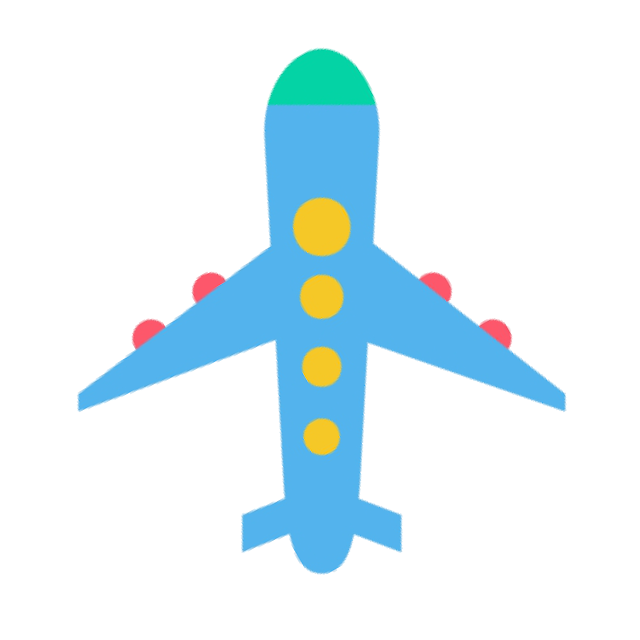
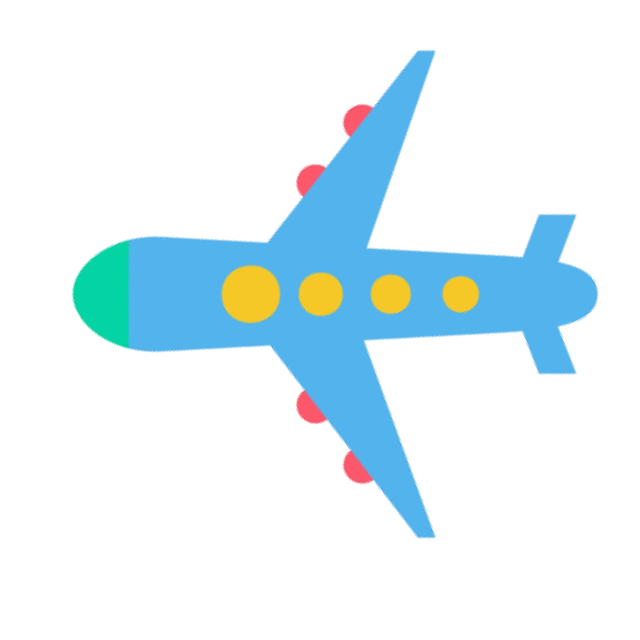
plane control dynamics working

Changed region(s): [[0.0938, 0.0625, 0.9375, 0.9062]]

diff --git a/planes/game.go b/planes/game.go
@@ -26,12 +26,14 @@ const (
 	playerIconScaleX = 0.05
 	playerIconScaleY = 0.05
 
-	initialVelocity = 0.5
+	initialVelocity = -0.5
+	defaultRotation = 0.01
 )
 
 var bgLayer, playerIcon *ebiten.Image
 
 func init() {
+	fmt.Println("init")
 	tile, _, _ := ebitenutil.NewImageFromFile("planes/assets/bg.jpg", ebiten.FilterDefault)
 	player, _, _ := ebitenutil.NewImageFromFile("planes/assets/icon_orig.png", ebiten.FilterDefault)
 	playerIcon, _ = ebiten.NewImage(32, 32, ebiten.FilterDefault)
@@ -69,71 +71,75 @@ func init() {
 }
 
 type Game struct {
-	x              float64
-	dx             float64
-	y              float64
-	dy             float64
-	bgLayerOffsetY float64
+	heading float64
+	x       float64
+	dx      float64
+	y       float64
+	dy      float64
 }
 
 func NewGame() *Game {
 	return &Game{
-		bgLayerOffsetY: 0.0,
-		dx:             0.0,
-		dy:             initialVelocity,
+		heading: math.Pi / 2,
+		x:       0.0,
+		y:       0.0,
 	}
 }
 
 func (g *Game) Update(screen *ebiten.Image) error {
+
 	if ebiten.IsKeyPressed(ebiten.KeyLeft) && !ebiten.IsKeyPressed(ebiten.KeyRight) {
 		fmt.Println("left")
-		g.dx -= 0.1 * initialVelocity
-		g.dy -= 0.1 * initialVelocity
+		g.rotate(-defaultRotation)
 	} else if ebiten.IsKeyPressed(ebiten.KeyRight) && !ebiten.IsKeyPressed(ebiten.KeyLeft) {
 		fmt.Println("Right")
-		g.dx += 0.1 * initialVelocity
-		g.dy -= 0.1 * initialVelocity
-	} else {
-
+		g.rotate(+defaultRotation)
 	}
-	g.move(screen, g.dx, g.dy)
+	g.move(initialVelocity)
+	return g.Draw(screen)
+}
+func (g *Game) Draw(screen *ebiten.Image) error {
+	screen.DrawImage(bgLayer, &ebiten.DrawImageOptions{})
+	op := &ebiten.DrawImageOptions{}
+	op.GeoM.Translate(-16, -16)
+	op.GeoM.Rotate(g.heading)
+	op.GeoM.Translate((ScreenWidth/2)+g.x, ScreenHeight-100+g.y)
+	screen.DrawImage(playerIcon, op)
+	ebitenutil.DebugPrintAt(screen, fmt.Sprintf("%f", g.x), 0, 0)
+	ebitenutil.DebugPrintAt(screen, fmt.Sprintf("%f", g.y), 100, 0)
+	ebitenutil.DebugPrintAt(screen, fmt.Sprintf("%f", degrees(g.heading)), 100, 10)
 	return nil
 }
 
-func (g *Game) move(screen *ebiten.Image, dx float64, dy float64) {
-	g.x += dx
-	g.y += dy
-	bgOffsetX := math.Mod(g.x, seamOffsetLimitX)
-	bgOffsetY := math.Mod(g.y, seamOffsetLimitY)
-	bgTran := ebiten.GeoM{}
-	bgTran.Translate(initialSeamOffsetX+bgOffsetX, initialSeamOffsetY+bgOffsetY)
+func (g *Game) move(delta float64) {
+	g.dx, g.dy = delta*math.Cos(g.heading), delta*math.Sin(g.heading)
+	g.x+=g.dx
+	g.y+=g.dy
+	//bgOffsetX := math.Mod(g.x, seamOffsetLimitX)
+	//bgOffsetY := math.Mod(g.y, seamOffsetLimitY)
+	//bgTran := ebiten.GeoM{}
+	//bgTran.Translate(initialSeamOffsetX+bgOffsetX, initialSeamOffsetY+bgOffsetY)
 
-	screen.DrawImage(bgLayer, &ebiten.DrawImageOptions{
-		GeoM:          bgTran,
-		ColorM:        ebiten.ColorM{},
-		CompositeMode: 0,
-		Filter:        0,
-		ImageParts:    nil,
-		Parts:         nil,
-		SourceRect:    nil,
-	})
+	//screen.DrawImage(bgLayer, &ebiten.DrawImageOptions{})
 
-	iconTran := ebiten.TranslateGeo(ScreenWidth/2-16, ScreenHeight-100)
+	//op := &ebiten.DrawImageOptions{}
+	//op.GeoM.Translate(-16, -16)
+	//op.GeoM.Rotate(g.heading)
+	//op.GeoM.Translate(ScreenWidth/2, ScreenHeight-100)
+	//screen.DrawImage(playerIcon, op)
+	//ebitenutil.DebugPrintAt(screen, fmt.Sprintf("%f", g.y), 0, 0)
+	//ebitenutil.DebugPrintAt(screen, fmt.Sprintf("%f", degrees(g.heading)), 100, 10)
+}
 
-	screen.DrawImage(playerIcon, &ebiten.DrawImageOptions{
-		GeoM:          iconTran,
-		ColorM:        ebiten.ColorM{},
-		CompositeMode: 0,
-		Filter:        0,
-		ImageParts:    nil,
-		Parts:         nil,
-		SourceRect:    nil,
-	})
-	ebitenutil.DebugPrintAt(screen, fmt.Sprintf("%f", g.y), 0, 0)
-	ebitenutil.DebugPrintAt(screen, fmt.Sprintf("%f", g.dx), 100, 10)
-	ebitenutil.DebugPrintAt(screen, fmt.Sprintf("%f", g.dy), 0, 10)
+func (g *Game) rotate(dTheta float64) {
+	g.heading += dTheta
+
 }
 
 func (g Game) Layout(outsideWidth, outsideHeight int) (screenWidth, screenHeight int) {
 	return ScreenWidth, ScreenHeight
+}
+
+func degrees(rad float64) float64 {
+	return rad * 180 / math.Pi
 }
